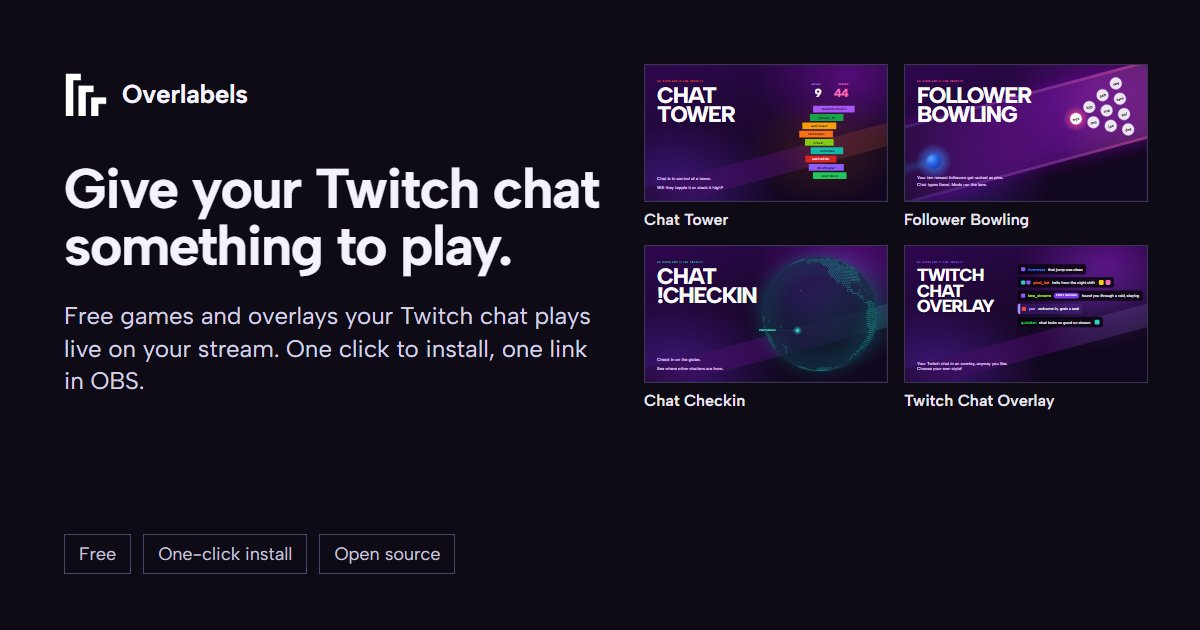
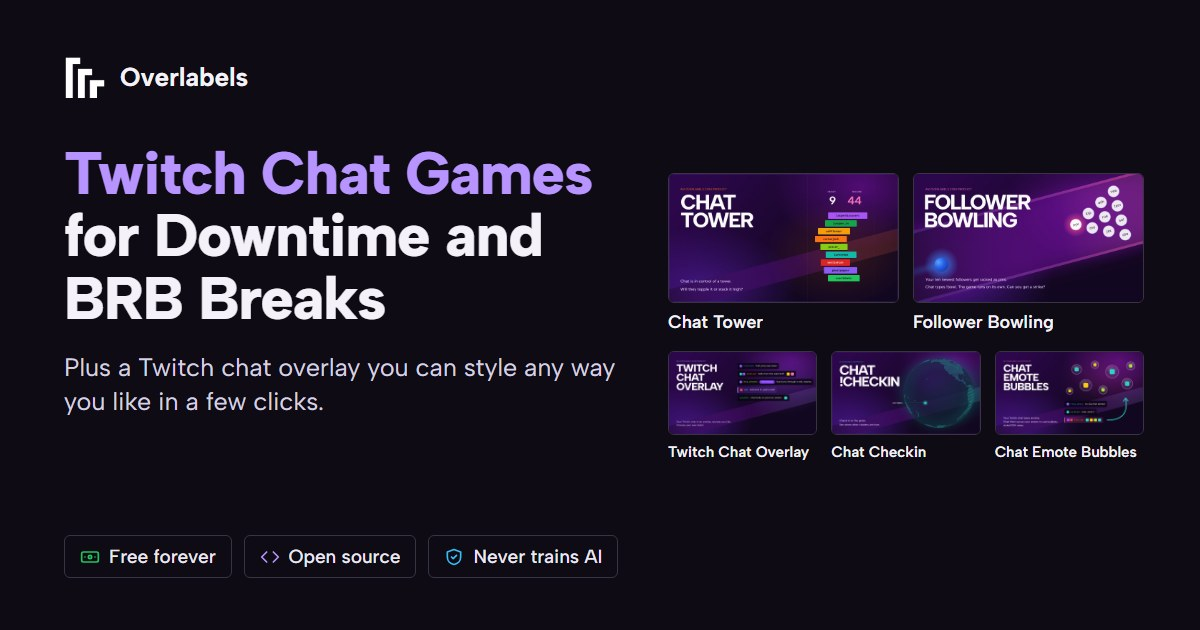
feat(home): a share image for the new headline, and descriptions that fit
The Open Graph image carries "Twitch Chat Games for Downtime and BRB Breaks",
the overlay line, all five products and three chips: Free forever, Open
source, Never trains AI. Rendered from HTML with headless Chrome, written as
both ogimage.jpg (homepage) and ogimage.png (default for other pages).

The meta description drops to 145 characters and the og and twitter
descriptions to 105, under the preview cut-offs; the image alt text names
the new headline and the five products.

Changed region(s): [[0.0308, 0.0905, 0.9558, 0.7238], [0.0617, 0.8444, 0.5242, 0.9349], [0.0308, 0.0905, 0.2158, 0.181]]

diff --git a/resources/views/welcome.blade.php b/resources/views/welcome.blade.php
@@ -40,24 +40,24 @@
     <link href="https://fonts.bunny.net/css?family=albert-sans:300,400,500,600,700" rel="stylesheet" />
 
     <title>Overlabels: Free Twitch Chat Games and Chat Overlay</title>
-    <meta name="description" content="Chat Tower, Follower Bowling, Chat Checkin and a Twitch chat overlay: free games and overlays your Twitch chat plays live on your stream, installed in one click, one browser source in OBS. Tips from Ko-fi, Streamlabs, Fourthwall, Buy Me a Coffee and Throne land on your Twitch stream too. Open source." />
+    <meta name="description" content="Free Twitch chat games for downtime and BRB breaks, plus a Twitch chat overlay you style in a few clicks. One browser source in OBS. Open source." />
     <link rel="canonical" href="https://overlabels.com/" />
 
     <meta property="og:type" content="website" />
     <meta property="og:url" content="https://overlabels.com/" />
     <meta property="og:site_name" content="Overlabels" />
     <meta property="og:title" content="Overlabels: Free Twitch Chat Games and Chat Overlay" />
-    <meta property="og:description" content="Chat Tower, Follower Bowling, Chat Checkin and a Twitch chat overlay: free games and overlays your Twitch chat plays live on your stream, installed in one click, one browser source in OBS. Tips from Ko-fi, Streamlabs, Fourthwall, Buy Me a Coffee and Throne land on your Twitch stream too. Open source." />
+    <meta property="og:description" content="Free Twitch chat games for downtime and BRB breaks, plus a Twitch chat overlay you style in a few clicks." />
     <meta property="og:image" content="{{ asset('ogimage.jpg') }}" />
     <meta property="og:image:width" content="1200" />
     <meta property="og:image:height" content="630" />
-    <meta property="og:image:alt" content="Overlabels • games your Twitch chat plays live on your stream" />
+    <meta property="og:image:alt" content="Twitch Chat Games for Downtime and BRB Breaks, with Chat Tower, Follower Bowling, Twitch Chat Overlay, Chat Checkin and Chat Emote Bubbles" />
 
     <meta name="twitter:card" content="summary_large_image" />
     <meta name="twitter:title" content="Overlabels: Free Twitch Chat Games and Chat Overlay" />
-    <meta name="twitter:description" content="Chat Tower, Follower Bowling, Chat Checkin and a Twitch chat overlay: free games and overlays your Twitch chat plays live on your stream, installed in one click, one browser source in OBS. Tips from Ko-fi, Streamlabs, Fourthwall, Buy Me a Coffee and Throne land on your Twitch stream too. Open source." />
+    <meta name="twitter:description" content="Free Twitch chat games for downtime and BRB breaks, plus a Twitch chat overlay you style in a few clicks." />
     <meta name="twitter:image" content="{{ asset('ogimage.jpg') }}" />
-    <meta name="twitter:image:alt" content="Overlabels • games your Twitch chat plays live on your stream" />
+    <meta name="twitter:image:alt" content="Twitch Chat Games for Downtime and BRB Breaks, with Chat Tower, Follower Bowling, Twitch Chat Overlay, Chat Checkin and Chat Emote Bubbles" />
 
     @vite(['resources/js/welcome/app.ts'])
 </head>
